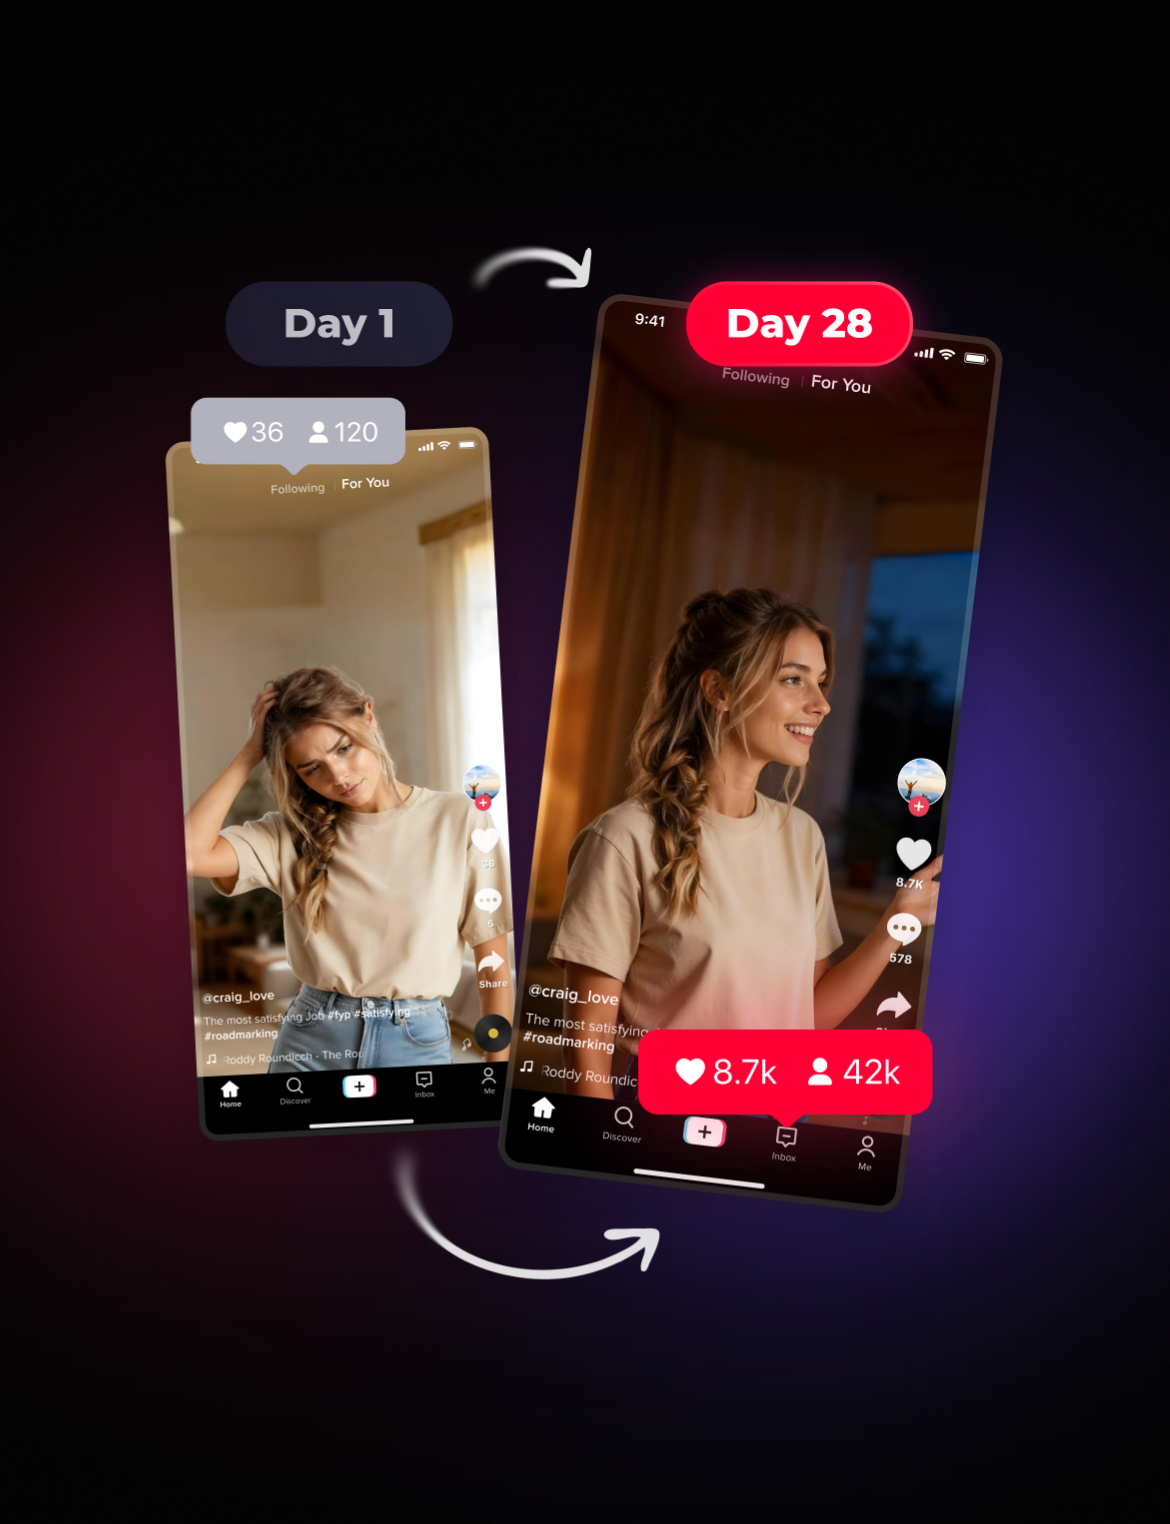
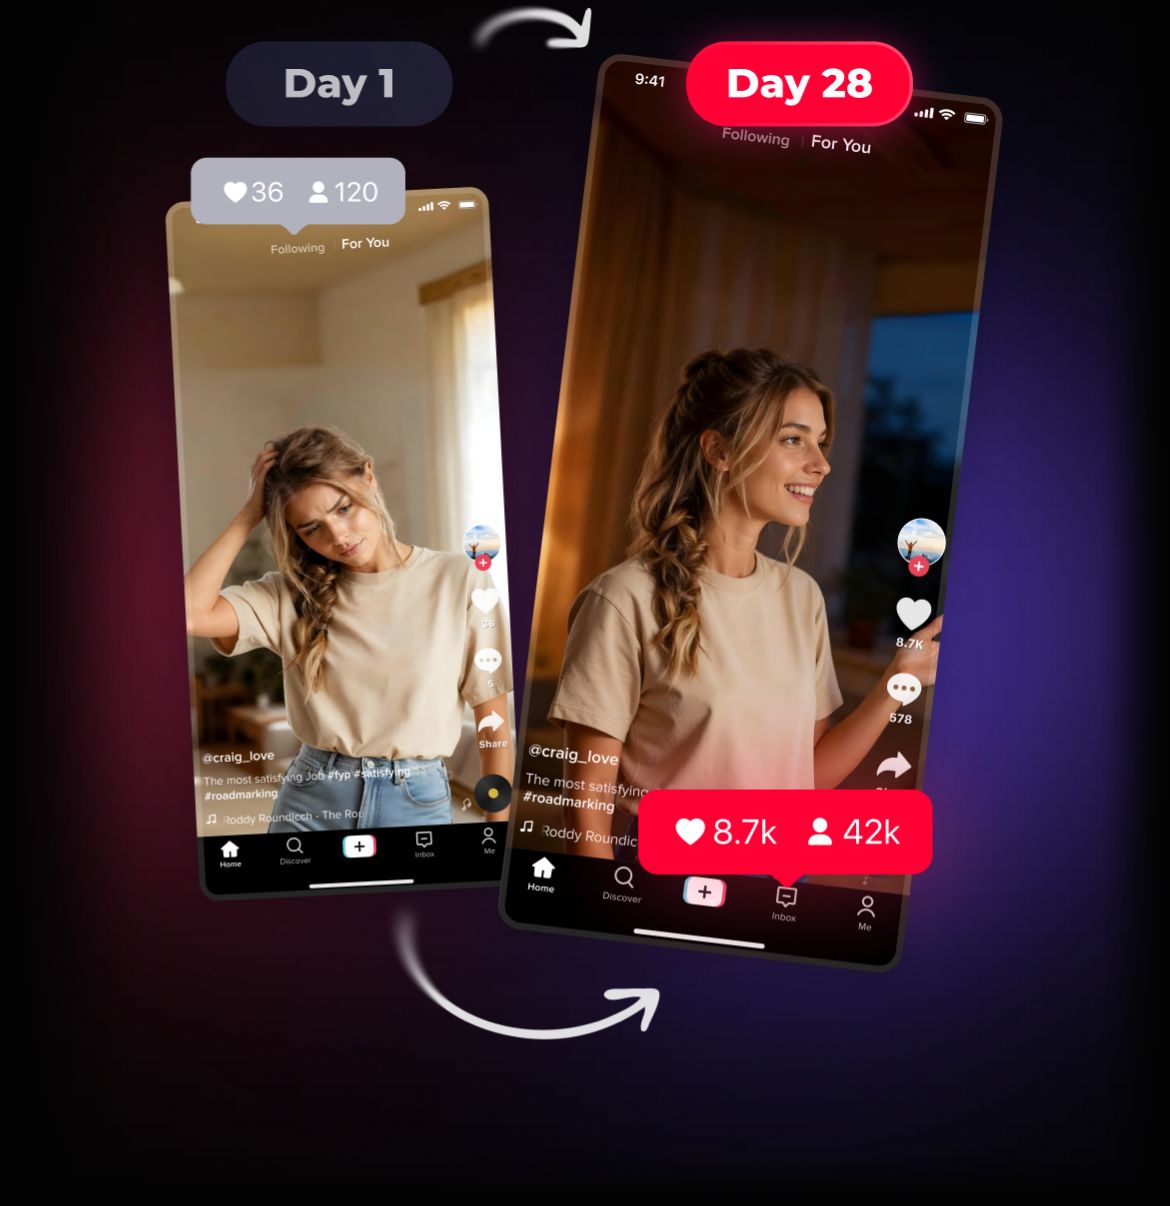
fix: hero spacing so the illustration, loading row and legal footer all fit

diff --git a/src/funnel/screens/Hero.tsx b/src/funnel/screens/Hero.tsx
@@ -6,14 +6,19 @@ import { HeroStar, HeroProgress, Spinner } from "@/funnel/screens/icons";
 /**
  * Hero ("Dark 9", Figma 45573:1454 -> content frame 45573:1471, 390x714).
  *
- * Laid out at the original's exact px coordinates. The top block is pinned to the top of the
- * content area; the illustration and the legal footer are pinned to the bottom, which keeps the
- * spacing between the phones and the footer identical to Figma on any viewport. At the design
- * height (714px of content) every element lands on its Figma coordinate exactly.
+ * The top block (wordmark, rating, headline, progress, loading row) keeps the original's px
+ * coordinates. Everything below is re-spaced for the real browser content area, which is 676px
+ * tall (870 viewport - 112 top chrome - 82 bottom nav), not Figma's 714.
  *
  * /img/hero-illo.png is the glow (45573:1486) and the phone comparison (45573:1492) composited in
  * Figma and exported as one image - Figma bakes the #030303 page background into every export, so
- * layering two separate exports would have blacked out the glow.
+ * layering two separate exports would have blacked out the glow. That also means the export is a
+ * fully opaque rectangle: the 16% of dead background above the artwork and the 15% below it were
+ * still real, painted pixels that covered whatever they overlapped. They have been cropped off the
+ * PNG (it is now 1170x1206; ink runs from 0.4% to 87.5% of its height), so the img's box is the
+ * artwork's box and the blocks below can be spaced against pixels instead of against padding. The
+ * export's left and right edges are feathered into #030303 as well - the glow band ran all the way
+ * to them, which was invisible full-bleed but would be two hard seams now that it is 294px wide.
  */
 export function Hero({ onNext, hold }: { onNext: () => void; hold?: boolean }) {
   // The hero self-advances after 3s in the real flow. When the screen is deep-linked (?screen=hero)
@@ -28,23 +33,6 @@ export function Hero({ onNext, hold }: { onNext: () => void; hold?: boolean }) {
     <PhoneFrame>
       <BrowserChrome>
         <div onClick={onNext} className="relative h-full cursor-pointer overflow-hidden bg-[#030303] text-white">
-          {/*
-           * Glow + Day 1 / Day 28 phones. Figma puts this at y=206, 390x508, inside a 714px content
-           * frame; a browser content area is only 682px (870 viewport - 109 top chrome - 79 bottom
-           * nav), so it never fit at full size. The legal block is now two lines instead of one, so
-           * the box is trimmed again (444px tall, raised to y=196) to buy the text ~30px of clear
-           * air: the artwork's lowest ink - the curved arrow - sits at 86% of the image height, i.e.
-           * y=196+0.86*444=579, and the legal block starts around y=608. The top edge may ride under
-           * the progress bar and the loading row: that area of the export is pure glow, as in Figma.
-           */}
-          <img
-            src="/img/hero-illo.png"
-            alt=""
-            aria-hidden
-            draggable={false}
-            className="pointer-events-none absolute inset-x-0 top-[196px] block h-[444px] w-full select-none"
-          />
-
           {/* SMMHUB wordmark - Figma y=16, Gilroy ExtraBold 16. */}
           <p className="absolute inset-x-0 top-[16px] text-center font-brand text-[16px] font-extrabold leading-[20px]">SMMHUB</p>
 
@@ -71,24 +59,46 @@ export function Hero({ onNext, hold }: { onNext: () => void; hold?: boolean }) {
           <HeroProgress className="absolute left-[16px] top-[203px] h-[16px] w-[358px]" />
           <span className="absolute left-1/2 top-[202px] -translate-x-1/2 font-ui text-[12px] font-semibold leading-[1.4]">65%</span>
 
-          {/* Loading row - Figma y=235. */}
-          <div className="absolute left-1/2 top-[235px] flex h-[20px] -translate-x-1/2 items-center gap-[6px] whitespace-nowrap">
-            <Spinner className="size-[14px] animate-spin" />
+          {/*
+           * Loading row - Figma y=235, bottom edge y=255.
+           * The spinner sits in its own 22px-wide box rather than a 6px flex gap: the Figma capture
+           * engine collapses flex gaps, which parked the 14px glyph on top of the "L". A fixed-width
+           * box is real geometry, so the icon keeps 8px of clear space to its right either way.
+           */}
+          <div className="absolute left-1/2 top-[235px] flex h-[20px] -translate-x-1/2 items-center whitespace-nowrap">
+            <span className="flex h-[20px] w-[22px] shrink-0 items-center">
+              <Spinner className="size-[14px] animate-spin" />
+            </span>
             <span className="font-ui text-[14px] font-medium leading-[1.4]">Loading the quiz...</span>
           </div>
 
           {/*
-           * Legal footer. Arkadiy's review adds the illustrative-purposes sentence above the terms
-           * line, which doubles the block from two rendered lines to four. To keep it legible and
-           * clear of the illustration it is widened (304 -> 358) and stepped down to 10px/1.5 - the
-           * disclaimer sits a shade dimmer than the terms line, so the block reads as one deliberate
-           * footer rather than a wall of grey text.
+           * Glow + Day 1 / Day 28 phones, 294x303 at y=285 (aspect kept: 1170/1206 = 0.970).
+           * The box clears the loading row by 30px and the legal block by 10px, so no two boxes
+           * touch - the artwork itself reads as 32px below the loading text (ink starts 0.7% in)
+           * and 48px above the footer (the curved arrow, its lowest ink, ends at 87% of the box;
+           * the remaining 13% is the glow fading out).
            */}
-          <div className="absolute inset-x-0 bottom-[14px] px-[16px]">
-            <p className="mx-auto w-full max-w-[358px] text-center font-ui text-[10px] font-normal leading-[1.5] tracking-[-0.2px] text-white/70">
+          <img
+            src="/img/hero-illo.png"
+            alt=""
+            aria-hidden
+            draggable={false}
+            className="pointer-events-none absolute left-1/2 top-[285px] block h-[303px] w-[294px] -translate-x-1/2 select-none"
+          />
+
+          {/*
+           * Legal footer, y=598..664. Two sentences, each deliberately broken over two lines:
+           * the disclaimer is set to a 224px measure so it splits after "only" instead of orphaning
+           * "results.", and the terms line to 320px so it splits on the comma after "Conditions,"
+           * and never cuts a link in half. The disclaimer stays a step smaller and dimmer than the
+           * terms line, so the block reads as one footer with a clear primary line.
+           */}
+          <div className="absolute inset-x-0 bottom-[12px]">
+            <p className="mx-auto w-[224px] text-center font-ui text-[10px] font-normal leading-[14px] tracking-[-0.1px] text-white/50">
               Image above is for illustrative purposes only and does not guarantee results.
             </p>
-            <p className="mx-auto mt-[4px] w-full max-w-[358px] text-center font-ui text-[10px] font-normal leading-[1.5] tracking-[-0.2px] text-white/90">
+            <p className="mx-auto mt-[6px] w-[320px] text-center font-ui text-[11px] font-normal leading-[16px] tracking-[-0.1px] text-white/85">
               By continuing, you agree with <u>Terms and Conditions</u>, <u>Privacy Policy</u>, <u>Subscription Terms</u>
             </p>
           </div>